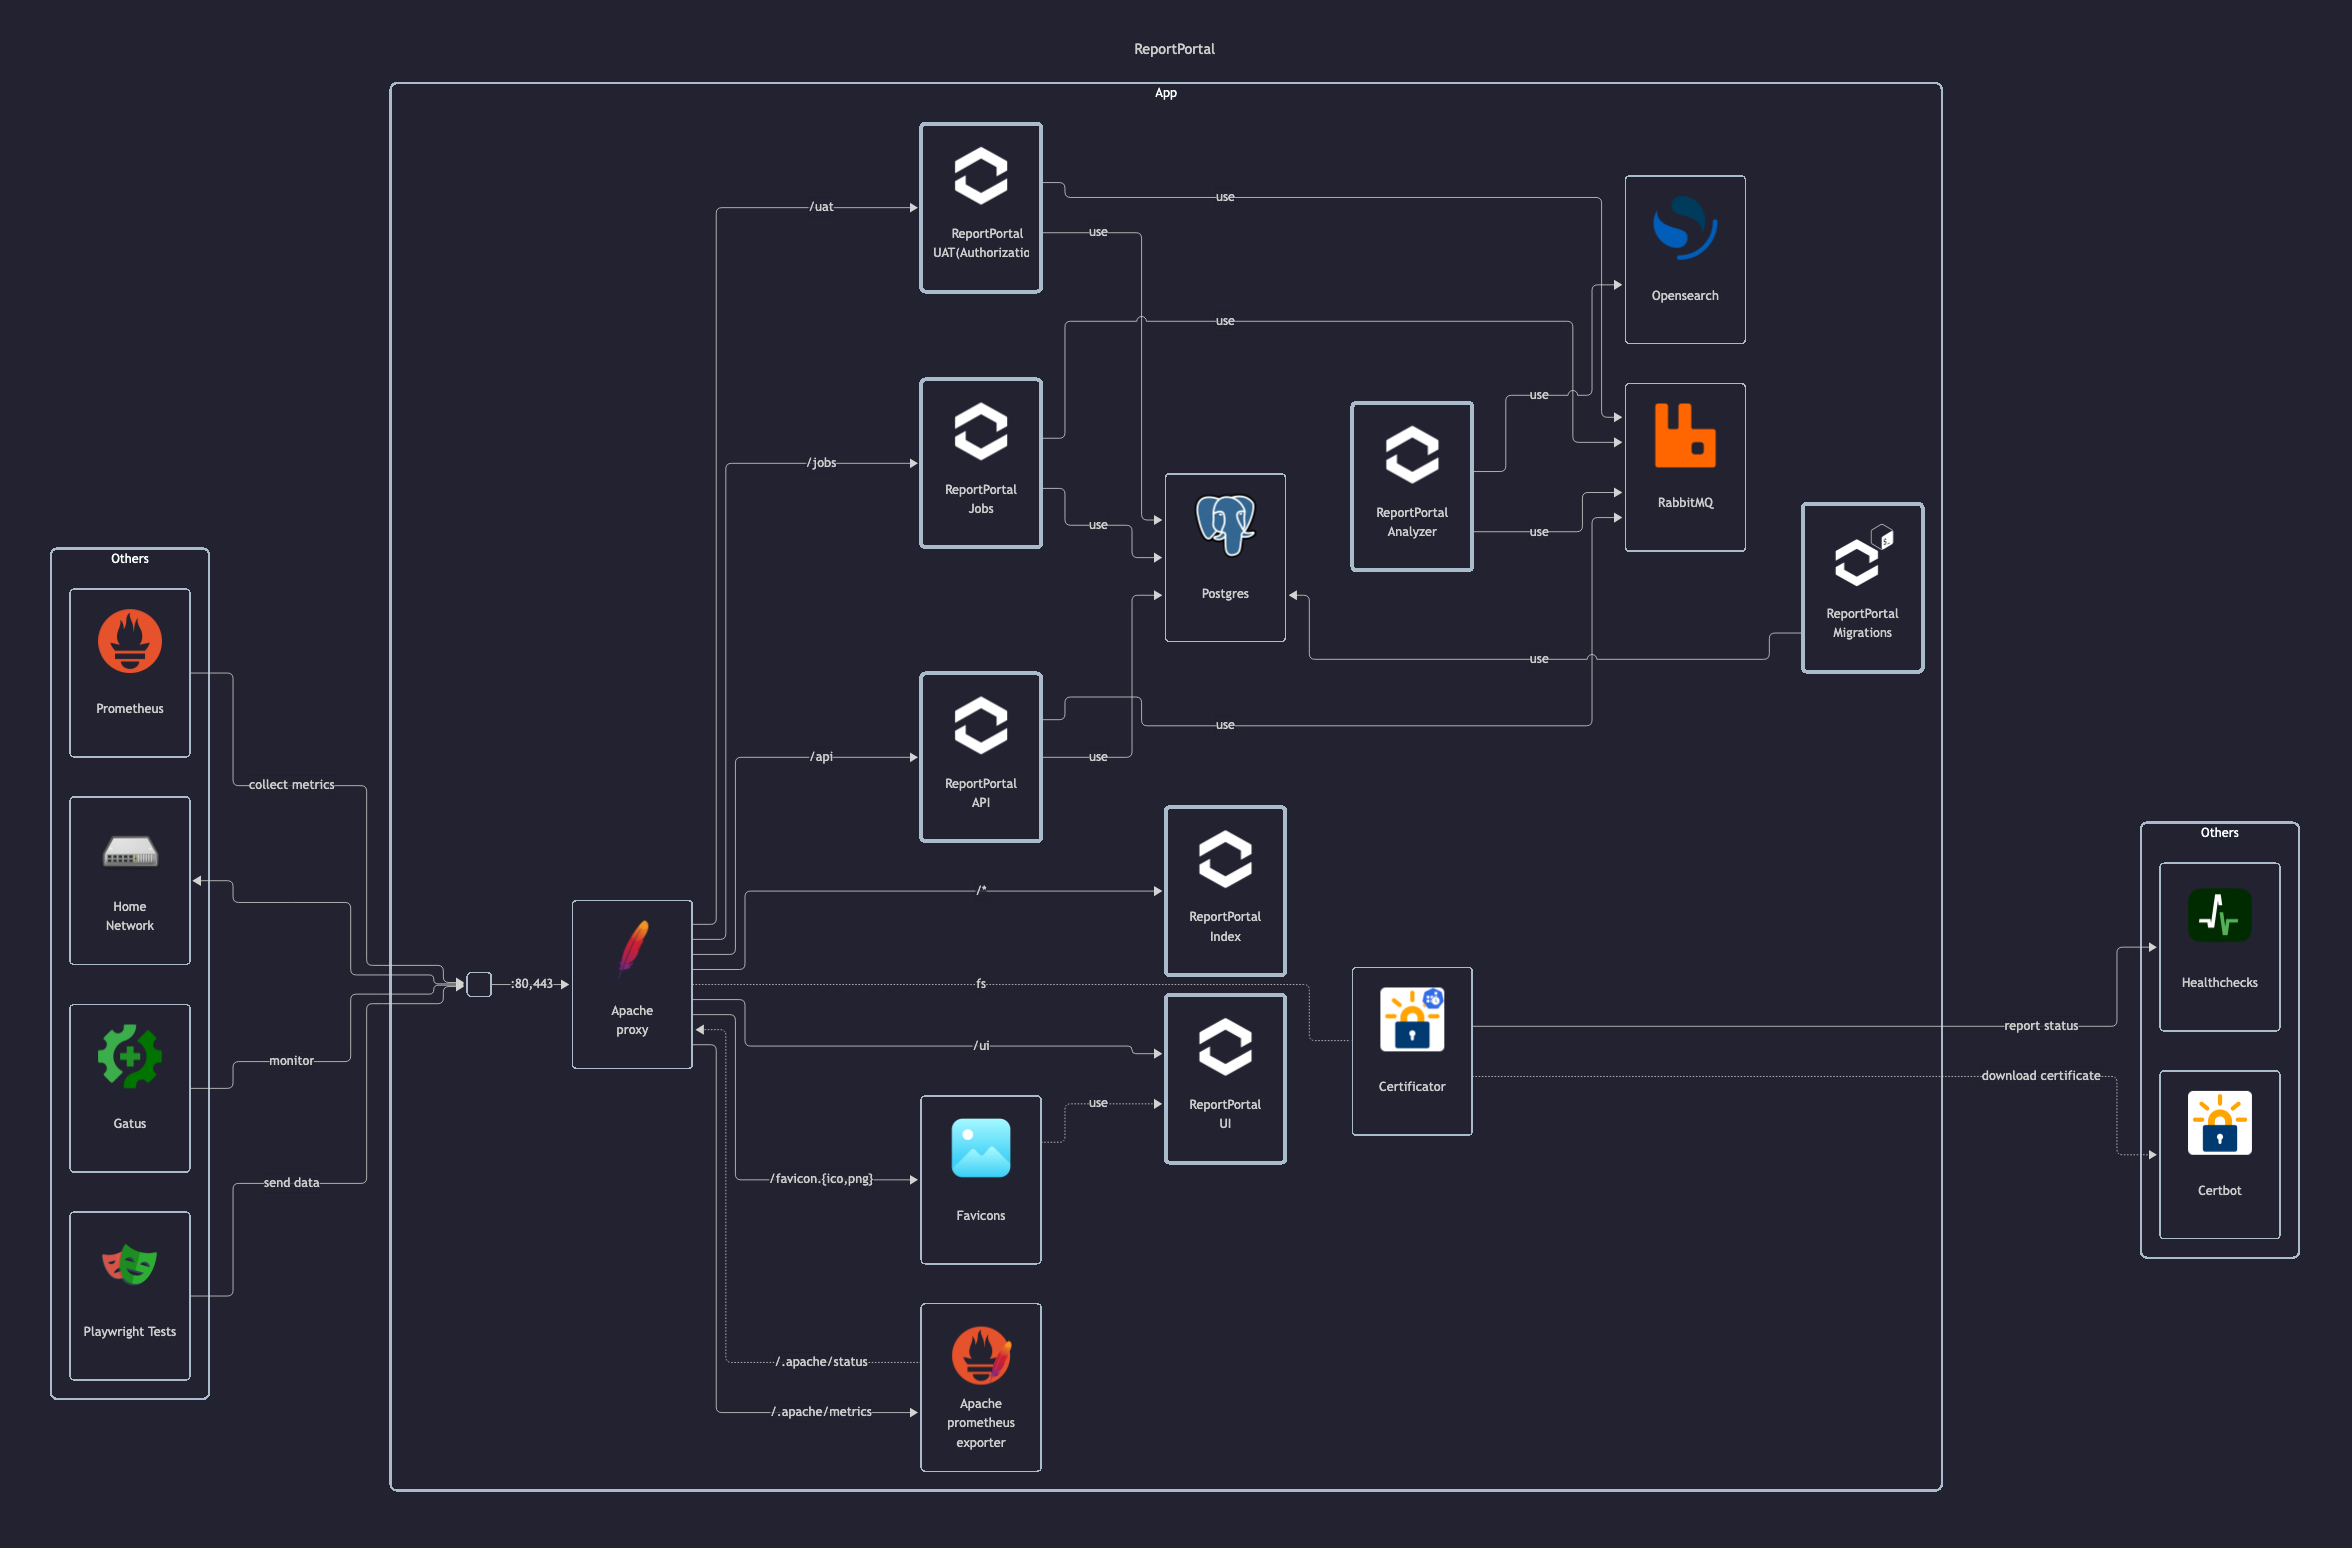
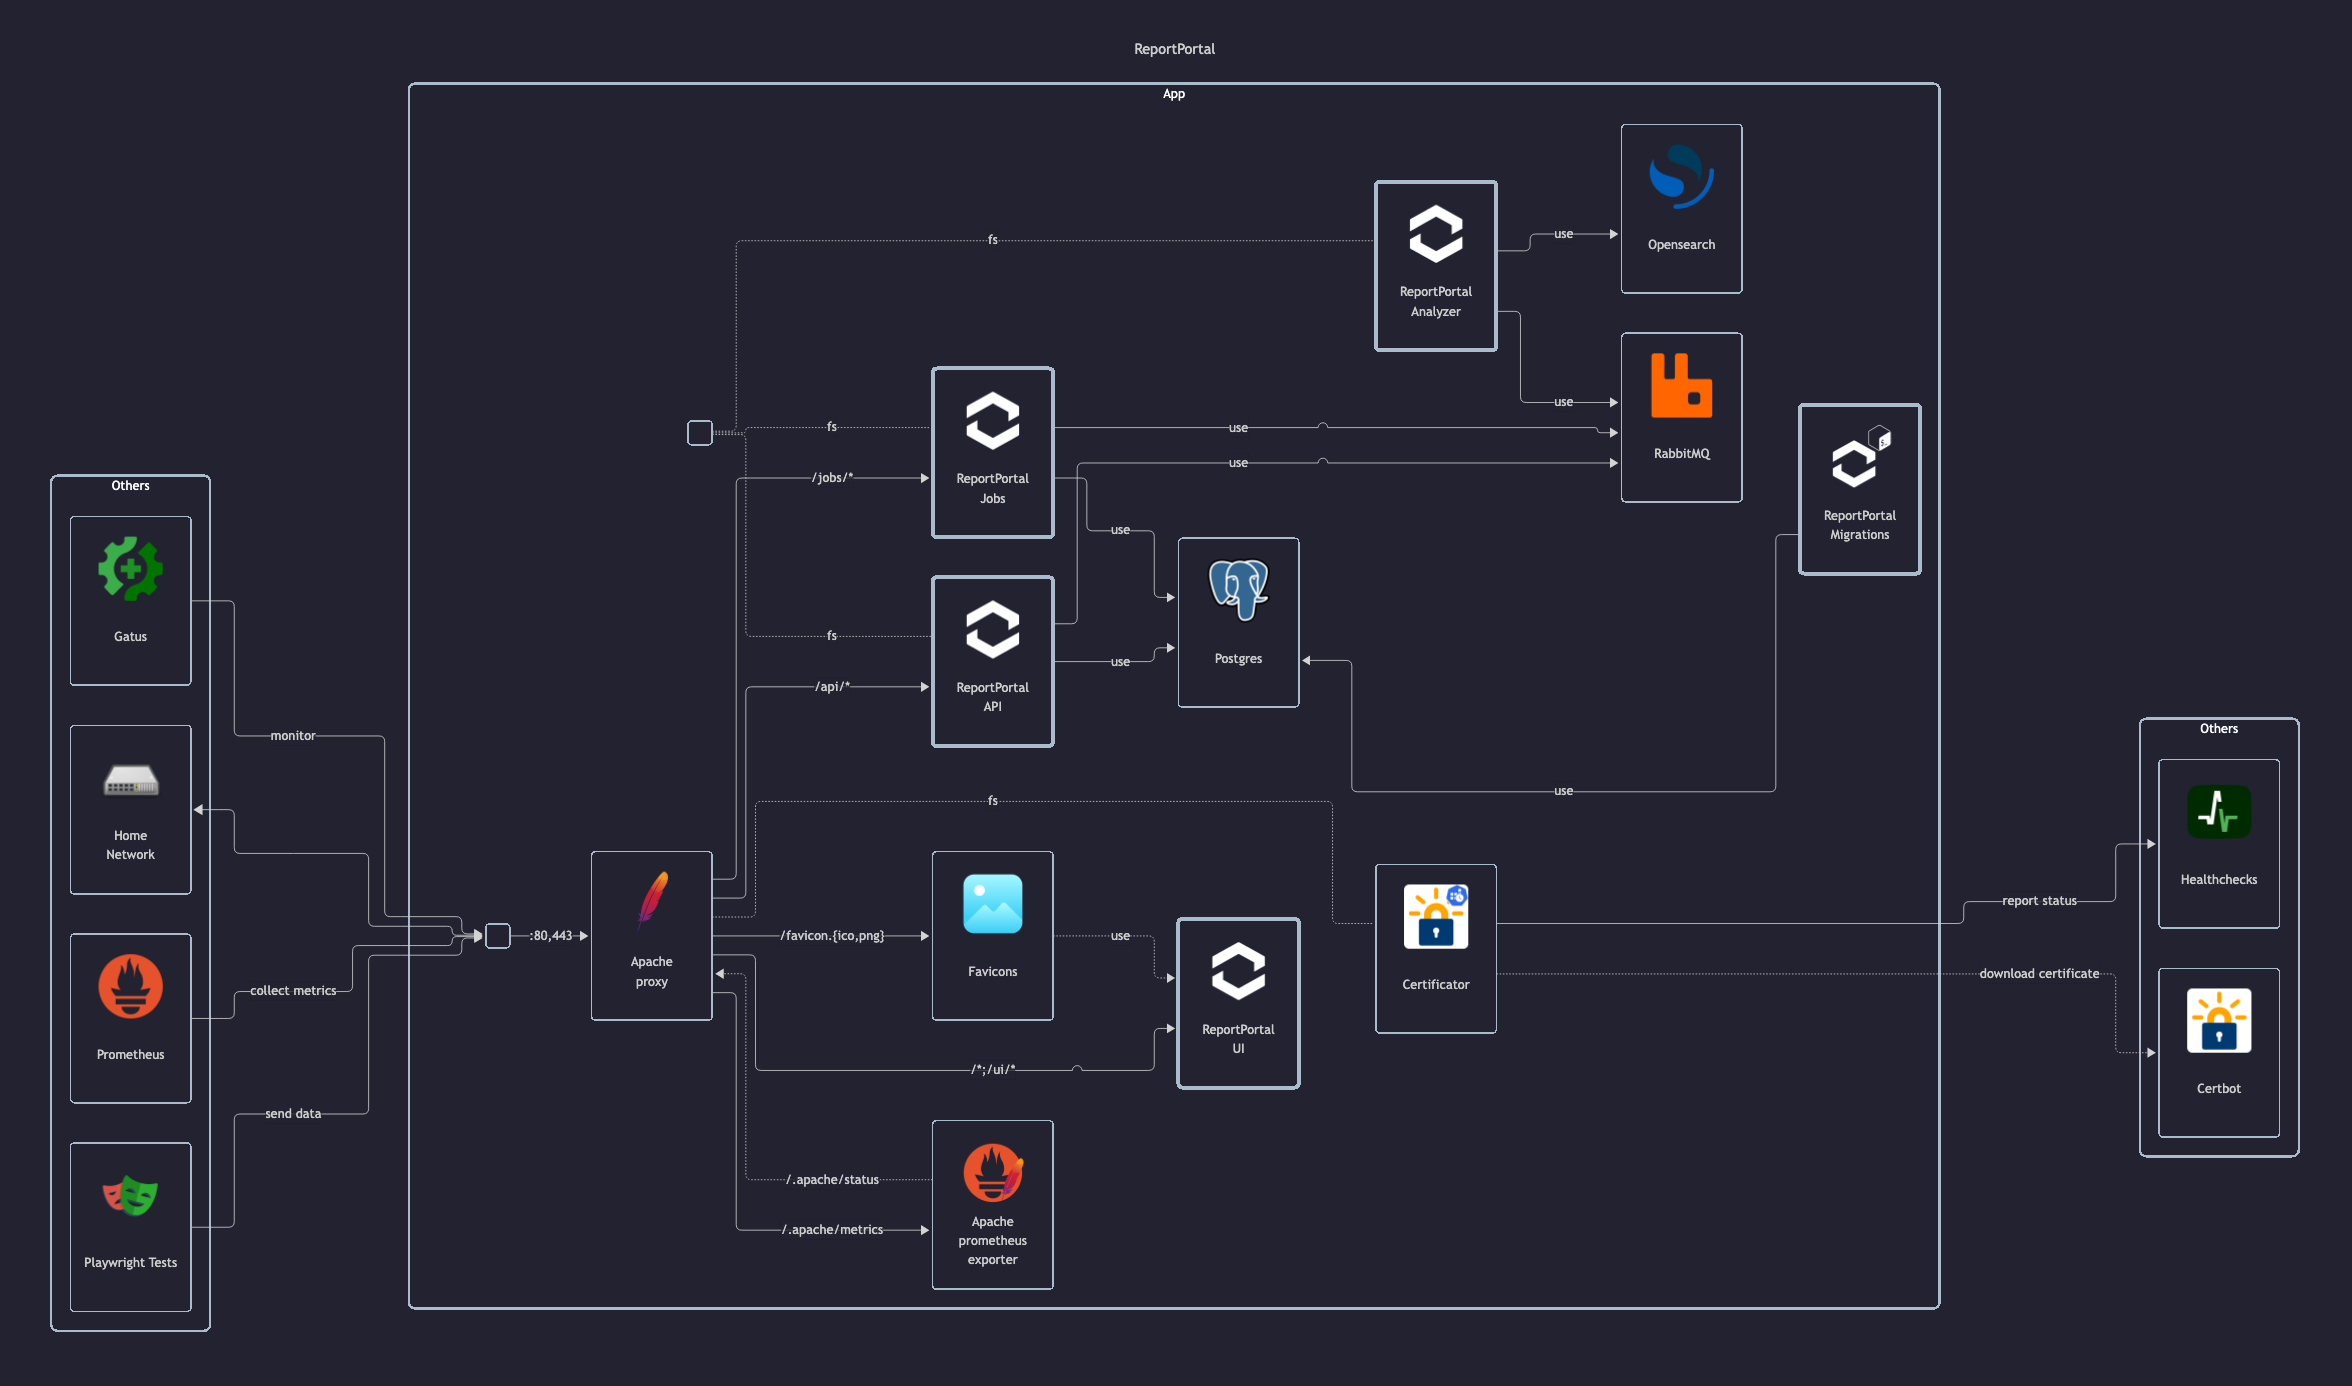
feat: migrate reportportal config, settings, scripts, etc to v6

diff --git a/tests/projects/tests/reportportal.test.ts b/tests/projects/tests/reportportal.test.ts
@@ -1,6 +1,8 @@
-import { test } from '#/playwright/test.ts';
+import { expect, test } from '#/playwright/test.ts';
 import { apps } from '#/utils/apps.ts';
+import { axios } from '#/utils/axios.ts';
 import { createApiRootTest, createFaviconTests, createHttpToHttpsRedirectTests, createProxyTests, createTcpTests } from '#/utils/tests.ts';
+import { getEnv } from '#/utils/utils.ts';
 
 const app = apps.reportportal;
 
@@ -18,9 +20,63 @@ test.describe(app.title, () => {
             createTcpTests(instance.url, [80, 443]);
             createFaviconTests(instance.url);
 
-            test.skip('PLACEHOLDER', () => {
-                // TODO: Finish tests
-            });
+            for (const service of ['api', 'jobs']) {
+                test(`API: ${service} health`, async () => {
+                    const response = await axios.get(`${instance.url}/${service}/health`);
+                    expect(response.status).toStrictEqual(200);
+                });
+            }
+
+            const validUsers = [
+                {
+                    email: 'admin@reportportal.internal',
+                    passwordEnv: 'ADMIN_PASSWORD',
+                },
+            ];
+            for (const user of validUsers) {
+                test(`UI: Successful login - User ${user.email}`, async ({ page }) => {
+                    await test.step('Open login', async () => {
+                        await page.goto(instance.url);
+                    });
+
+                    const response = await test.step('Login', async () => {
+                        await page.locator('input[name="login"]').fill(user.email);
+                        await page.locator('input[name="password"]').fill(getEnv(instance.url, user.passwordEnv));
+                        const response = page.waitForResponse((response) => response.url().includes('/api/sso/oauth/token') && response.request().method() === 'POST');
+                        await page.locator('form button[type="submit"]').click();
+                        return await response;
+                    });
+
+                    await test.step('Validate successful login', async () => {
+                        expect(response.status()).toStrictEqual(200);
+                        await expect(page.locator('input[name="password"]')).toBeHidden();
+                    });
+                });
+            }
+
+            const invalidUsers = [
+                {
+                    email: 'nonexistent@reportportal.invalid',
+                },
+            ];
+            for (const user of invalidUsers) {
+                test(`UI: Unsuccessful login - User ${user.email}`, async ({ page }) => {
+                    await test.step('Open login', async () => {
+                        await page.goto(instance.url);
+                    });
+
+                    await test.step('Attempt login', async () => {
+                        await page.locator('input[name="login"]').fill(user.email);
+                        await page.locator('input[name="password"]').fill('incorrect-password');
+                        await page.locator('form button[type="submit"]').click();
+                    });
+
+                    await test.step('Validate unsuccessful login', async () => {
+                        await expect(page.getByText('Email or password is incorrect').first()).toBeVisible();
+                        await expect(page.locator('input[name="password"]')).toBeVisible();
+                    });
+                });
+            }
         });
     }
 });

diff --git a/docker-compose/reportportal/README.md b/docker-compose/reportportal/README.md
@@ -26,32 +26,24 @@ Subservices:
     - Runs in single-node mode with web security disabled
 - ReportPortal Migrations:
     - Applies DB schema migrations before services start
-    - Runs once on container start and exits
+    - Runs once on container start, then stays healthy while the stack runs
     - Requires database to be healthy
-- ReportPortal Index:
-    - Service for indexing test data and logs
-    - Listens for incoming test results and logs
-    - Exposed via Traefik on root `/`
 - ReportPortal UI:
     - Web-based frontend for ReportPortal
     - Provides the visual interface for test reports
-    - Routed via Traefik under path `/ui`
+    - Routed via Apache under `/` and `/ui`
 - ReportPortal API:
     - ReportPortal backend API service
     - Hosts core business logic and background processing
-    - Requires database, RabbitMQ, and gateway to be available
+    - Manages authentication and token issuance
+    - Requires completed database migrations, RabbitMQ, and jobs
     - Exposes a REST API and internal job coordination endpoints
-    - Routed via Traefik under path `/api`
-- ReportPortal UAT:
-    - Authorization and authentication service
-    - Manages login, session lifecycle, and token issuance
-    - Initializes admin password on first deployment via env variable
-    - Routed via Traefik under path `/uat`
+    - Routed via Apache under `/api`
 - ReportPortal Jobs:
     - Scheduled job processor for ReportPortal
     - Executes cleanup, notification, and cron-based background tasks
     - Uses AMQP and DB to manage lifecycle of stored data and plugins
-    - Routed via Traefik under `/jobs`
+    - Routed via Apache under `/jobs`
 - ReportPortal Analyzer (optional):
     - Automatic test result analyzer, auto-analysis and ML training
     - Performs log analysis and pattern detection
@@ -64,5 +56,5 @@ Subservices:
 
 ## After initial installation
 
-- Note: Default user: `superadmin`
+- Login with default user: `admin@reportportal.internal`
 - Invite user `matej`
